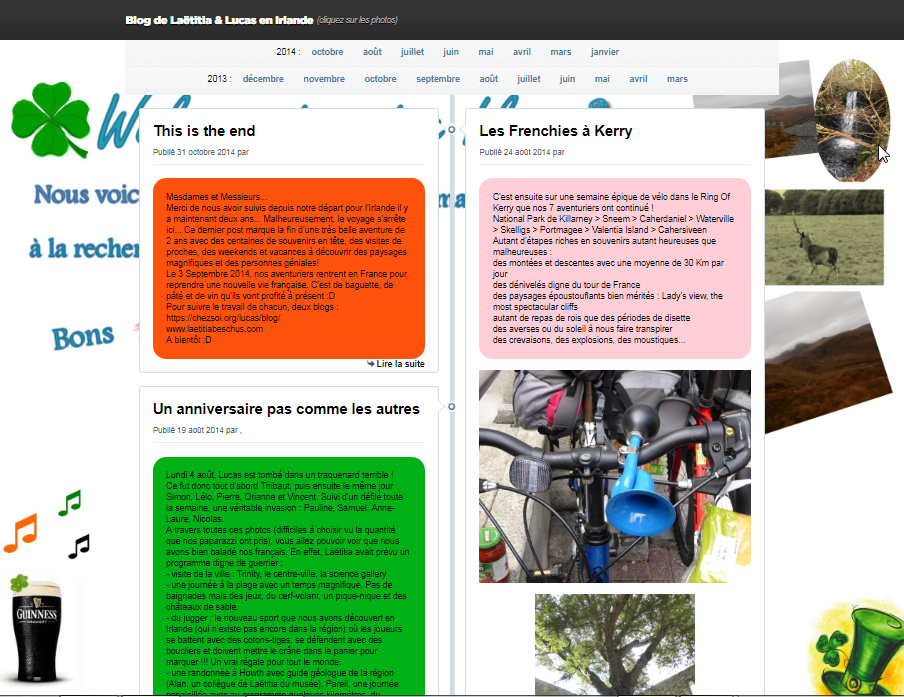
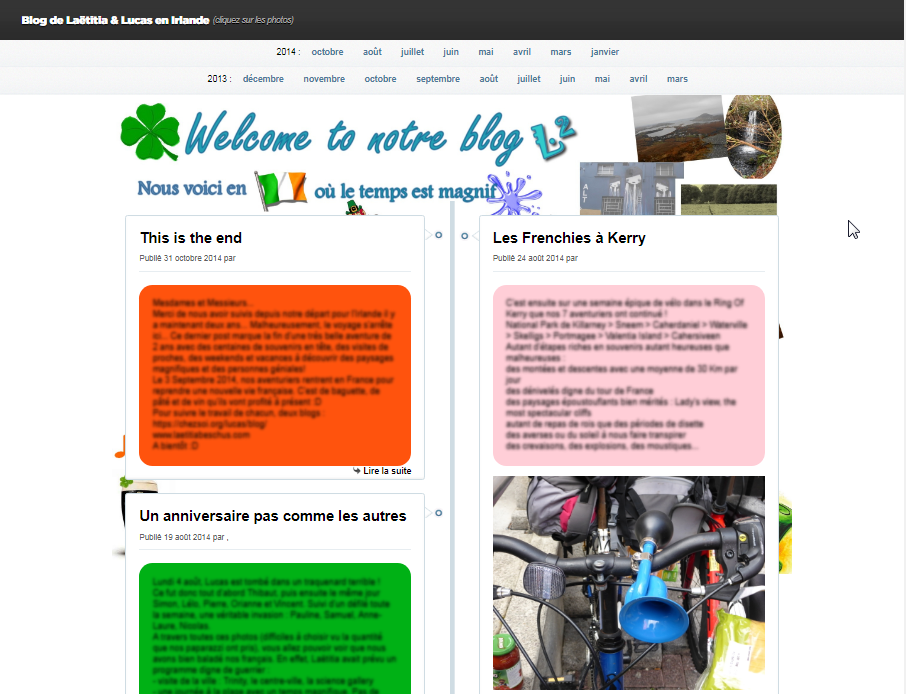
Allowing for custom css additions

diff --git a/static/css/timeline.css b/static/css/timeline.css
@@ -10,12 +10,7 @@ q:before,q:after{ content:'';}
 abbr,acronym{ border:0;}
 
 /*----- Intro -----*/
-body {
-    color: #000; font-family: Arial, Helvetica, sans-serif; font-size: 13px; line-height: 1.3;
-    min-width: 1024px;
-    background: white center top no-repeat;
-    background-size: contain;
-}
+body { color: #000; font-family: Arial, Helvetica, sans-serif; font-size: 13px; line-height: 1.3; }
 
 textarea{ resize:none;}
 a:link, a:visited, a:hover, a:active { outline:none }
@@ -23,7 +18,8 @@ a{color: #4c7999;cursor:pointer;outline:none;position:relative;text-decoration:n
 a:hover{text-decoration:none; color: #6594b5;}
 ::-moz-focus-inner{ border:0; }
 
-.wrap {margin: 0 auto; overflow: hidden; position: relative; width: 980px;}
+.content {margin: 0 auto; padding-bottom: 20px; width: 1020px; background: white center top no-repeat; background-size: contain;}
+.wrap {margin: 0 auto; overflow: hidden; position: relative; width: 1020px;}
 .cl,.cr,.cb{ display:block !important; float:none !important; height:0 !important; width:0 !important;}
 .cl{ clear:left;}
 .cr{ clear:right;}
@@ -46,38 +42,26 @@ a:hover{text-decoration:none; color: #6594b5;}
 .clearfix {clear: both;}
 
 /*----- HEADER  -----*/
-.top {background: url("/theme/img/header.png") repeat; height: 60px; line-height: 60px;}
-.top .logo {float: left; width: 630px; height: 60px; overflow: hidden;}
-.top .logo a {color: #FFF;}
+.top {background: url("/theme/img/header.png") repeat; height: 60px; line-height: 60px; padding: 0 2rem;}
+.top a {color: #FFF;}
 .top a,
 .top a:visited {color: #FFF; float: left; font-family: 'Conv_Gotham-Black_0', Arial, sans-serif; font-size: 16px; color: #fff; margin-right: 5px; text-shadow: 0px 1px 1px #000;}
 .top p {float: left; font-size: 13px; font-style: italic; color: #a3a3a3; letter-spacing: -0.5px; text-shadow: 0px 1px 0px #000;}
 
 /*----- NAV DATE -----*/
-.date .wrap {background: url("/theme/img/date.png") repeat; height: 41px; line-height: 38px;}
+.date {background: url("/theme/img/date.png") repeat; height: 41px; line-height: 38px;}
 .date a {display: block; font-weight: bold;}
 .date .control-left {float: left; margin-top: 2px;}
 .date .control-right {float: right; margin-top: 2px;}
 .date ul {margin: 0 auto; width: 940px;overflow:hidden; text-align: center;}
 .date li {color: #969696; display: inline-block; margin: 0 13px;}
 .date li.last {margin-right: 0;}
-.date .active a {border-bottom: 2px solid #4b9fd3;}
 .date li a:hover{border-bottom: 2px solid #e2eaef;}
-.date .active a {color: #4c7999;}
 
 .year li{display:none;}
 .year li:nth-last-child(-n+12){display:inline-block;}
 
 /*----- CONTENT -----*/
-.container {margin: 0 auto; padding-bottom: 20px; width: 1020px;}
-
-.informations {margin: 20px 20px 320px;}
-.informations h2 {font-size: 36px;}
-.informations p {font-size: 18px;}
-.informations a {font-weight: bold; color: #fff; text-decoration: underline;}
-.informations .social {overflow: hidden; margin-top: 15px;}
-.informations .social li{float: left; margin-right: 10px;}
-
 .back {text-align: center;}
 
 .items.left {float:left;}

diff --git a/templates/index.html b/templates/index.html
@@ -1,30 +1,28 @@
 {% extends "base.html" %}
 {% block content %}
-<div class="container">
-    <div class="wrapper-timeline">
-        <!-- List items -->
-        <div class="items-wrapper">
-            <!-- Left col -->
-            <div class="items left">
-                {% for article in ((dates_page and dates_page.object_list) or dates) %}
-                {% if loop.index is not divisibleby 2 %}
-                {% include 'index_item.html' %}
-                {% endif %}
-                {% endfor %}
-            </div>
-            <!-- Right col -->
-            <div class="items right">
-                {% for article in ((dates_page and dates_page.object_list) or dates) %}
-                {% if loop.index is divisibleby 2 %}
-                {% include 'index_item.html' %}
-                {% endif %}
-                {% endfor %}
-            </div>
-            <div class="clearfix"></div>
-            {% if DEFAULT_PAGINATION and dates_page %}
-            <p class="load-more"><a href="/page/{{dates_page.number + 1}}">Afficher plus d'articles</a></p>
+<div class="wrapper-timeline">
+    <!-- List items -->
+    <div class="items-wrapper">
+        <!-- Left col -->
+        <div class="items left">
+            {% for article in ((dates_page and dates_page.object_list) or dates) %}
+            {% if loop.index is not divisibleby 2 %}
+            {% include 'index_item.html' %}
             {% endif %}
+            {% endfor %}
         </div>
+        <!-- Right col -->
+        <div class="items right">
+            {% for article in ((dates_page and dates_page.object_list) or dates) %}
+            {% if loop.index is divisibleby 2 %}
+            {% include 'index_item.html' %}
+            {% endif %}
+            {% endfor %}
+        </div>
+        <div class="clearfix"></div>
+        {% if DEFAULT_PAGINATION and dates_page %}
+        <p class="load-more"><a href="/page/{{dates_page.number + 1}}">Afficher plus d'articles</a></p>
+        {% endif %}
     </div>
 </div>
 {% endblock content %}

diff --git a/templates/base.html b/templates/base.html
@@ -34,23 +34,20 @@
         <link href="{{ FEED_DOMAIN }}/{{ TAG_FEED_RSS|format(tag.slug) }}" type="application/rss+xml" rel="alternate" title="{{ SITENAME }} Tags RSS Feed" />
         {% endif %}
         <link rel="stylesheet" href="{{ SITEURL }}/theme/css/timeline.css"/>
+        <style>{{ CUSTOM_CSS }}</style>
         {% endblock head %}
     </head>
-    <body style="background-image: url({{ BACKGROUND_IMAGE }});">
+    <body>
         <header class="header">
             <div class="top">
-                <div class="wrap">
-                    <div class="logo">
-                        <h1><a href="{{ SITEURL }}" title="{{ SITESUBTITLE }}">{{ SITENAME }}</a></h1>
-                        <p>{{ DESCRIPTION }}</p>
-                    </div>
-                </div>
+                <h1><a href="{{ SITEURL }}" title="{{ SITESUBTITLE }}">{{ SITENAME }}</a></h1>
+                <p>{{ DESCRIPTION }}</p>
             </div>
 
             {% if MONTH_ARCHIVE_SAVE_AS %}
-            <nav class="date">
+            <nav>
             {% for year in dates | map(attribute='date.year') | unique %}
-                <div class="wrap">
+                <div class="date">
                     <ul class="year">
                     {{ year }} :
                     {% for month in dates | map(attribute='date') | selectattr('year', 'equalto', year) | map('strftime', '%Y %m %B') | unique %}
@@ -66,7 +63,9 @@
             {% endif %}
         </header>
 
+        <div class="content" style="background-image: url({{ BACKGROUND_IMAGE }});">
         {% block content %}
         {% endblock %}
+        </div>
     </body>
 </html>

diff --git a/README.md b/README.md
@@ -11,6 +11,8 @@
 
     NOINDEX = True
 
+    CUSTOM_CSS = ''
+
 
 ## License
 
